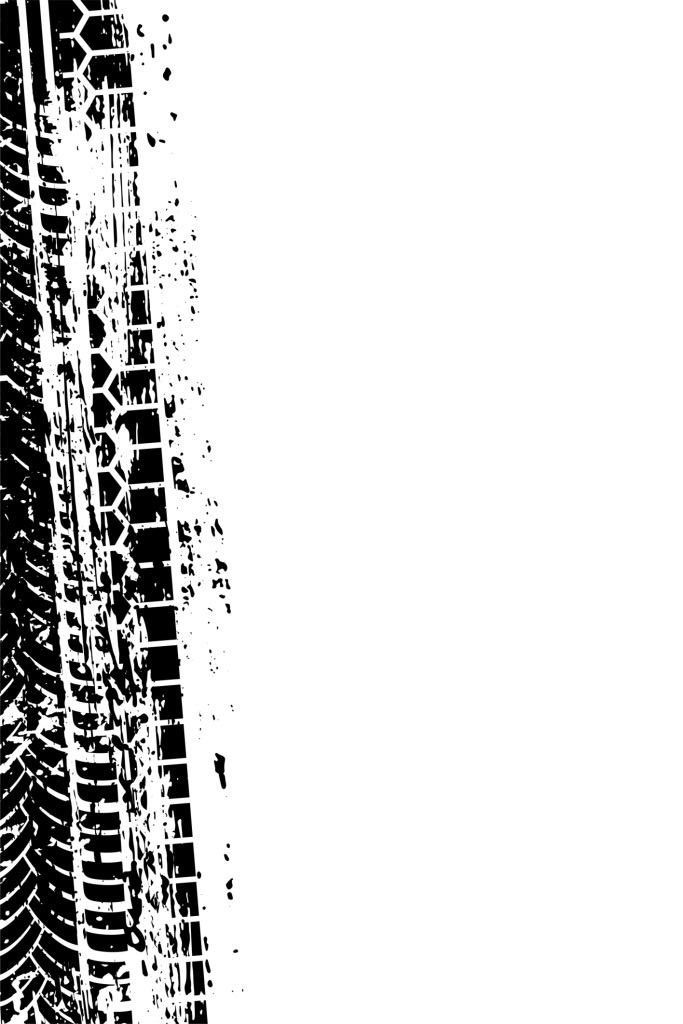
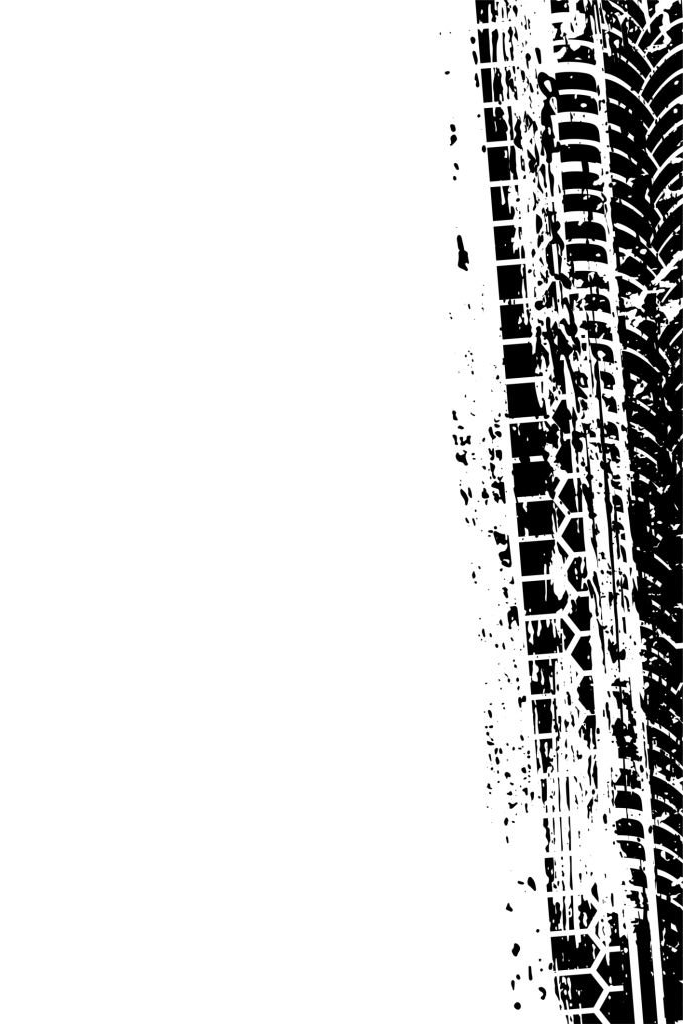
edit background

diff --git a/styles/styles.css b/styles/styles.css
@@ -102,12 +102,22 @@ legend {
 body {
   background-color: var(--background-color);
   background-image: url("../images/istockphoto-1367782722-1024x1024.png");
+  background-position-x: right;
   background-repeat: no-repeat;
 }
 
 .container {
   width: 95vw;
   margin-inline: auto;
+}
+
+.block {
+  background-color: var(--background-block-color);
+  opacity: 0.9;
+  border-radius: 10px;
+  backdrop-filter: blur(10px);
+  border: 1px solid rgba(255, 255, 255, 0.7);
+  box-shadow: 0 10px 20px rgba(0, 0, 0, 0.6), inset 0 0 5px rgba(255, 255, 255, 0.5);
 }
 
 .header {
@@ -118,12 +128,6 @@ body {
   align-items: center;
   padding-inline: 1rem;
   margin-top: 1rem;
-  background-color: var(--background-block-color);
-  opacity: 0.6;
-  border-radius: 10px;
-  backdrop-filter: blur(10px);
-  border: 1px solid rgba(255, 255, 255, 0.6);
-  box-shadow: 0 4px 20px rgba(0, 0, 0, 0.6), inset 0 0 5px rgba(255, 255, 255, 0.5);
 }
 .header__button {
   height: 2rem;
@@ -131,7 +135,6 @@ body {
   padding-inline: 1rem;
   border-radius: 10px;
   background-color: var(--button-color);
-  opacity: 0.8;
   transition: all 0.2s ease-in-out;
 }
 @media (hover: hover) {

diff --git a/styles/styles.scss b/styles/styles.scss
@@ -4,6 +4,16 @@
 @use 'mixins' as *;
 @use 'utils' as *;
 
+.block {
+  background-color: var(--background-block-color);
+  opacity: 0.9;
+  border-radius: 10px;
+  backdrop-filter: blur(10px);
+  border:	1px solid rgba(255,255,255,0.7);
+  box-shadow: 0 10px 20px rgba(0, 0, 0, 0.6),
+  inset 0 0 5px rgba(255, 255, 255, 0.5);
+}
+
 .header {
 //  @include border;
   display: flex;
@@ -13,13 +23,6 @@
   align-items: center;
   padding-inline: 1rem;
   margin-top: 1rem;
-  background-color: var(--background-block-color);
-  opacity: 0.6;
-  border-radius: 10px;
-  backdrop-filter: blur(10px);
-  border:	1px solid rgba(255,255,255,0.6);
-  box-shadow: 0 4px 20px rgba(0, 0, 0, 0.6),
-  inset 0 0 5px rgba(255, 255, 255, 0.5);
 
   &__button {
     height: 2rem;
@@ -29,7 +32,6 @@
     padding-inline: 1rem;
     border-radius: 10px;
     background-color: var(--button-color);
-    opacity: 0.8;
     transition: all 0.2s ease-in-out;
 
     @include hover {

diff --git a/index.html b/index.html
@@ -34,7 +34,7 @@
   <title>Сутор дрон</title>
 </head>
 <body>
-<header class="header container">
+<header class="header container block">
   <div class="header__logo logo">
     <a href="#">
      Сутор_ дрон

diff --git a/styles/_globals.scss b/styles/_globals.scss
@@ -8,5 +8,6 @@
 body {
   background-color: var(--background-color);
   background-image: url("../images/istockphoto-1367782722-1024x1024.png");
+  background-position-x: right;
   background-repeat: no-repeat;
 }
